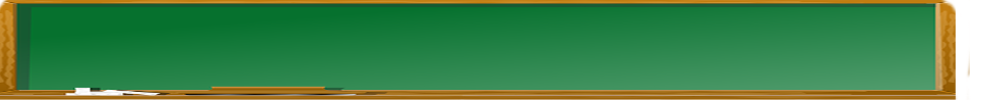
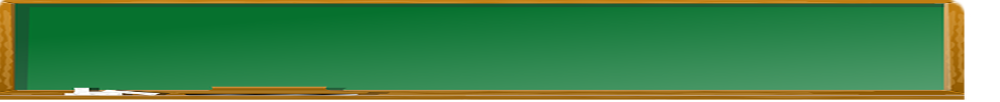
Finalizado parte de layout, agora so semanda que vem pra mexer

diff --git a/css/principal.css b/css/principal.css
@@ -11,17 +11,19 @@ body
 {
     margin-top: 10px;
     border-radius: 15px;
-    
+   
+    border-color: #333;
+    width: 960px;
     
 }
 #cabecalho
-{
+{ 
      background-color: #333;
      height: 100px;
      border-top-right-radius: 10px;
      border-top-left-radius: 10px;
      color: white;
-     width: 954px;
+     width: 960px;
      background-image: url("../img/banner.png");
 }
 
@@ -29,12 +31,10 @@ body
 {
     background-color:white;
     min-height: 300px;
-    margin-left: 0px;
-    width: 954px;
-    margin-top: 10px;
+    width: 960px;
     padding-top: -30px;
     clear: both;
-   
+    
 }
 
 
@@ -44,7 +44,7 @@ body
     height: 50px;
     border-bottom-right-radius: 9px;
     border-bottom-left-radius: 9px;
-    width: 954px;
+    width: 960px;
     clear: both;
     color: white;
 }
@@ -54,10 +54,10 @@ body
   color: black;
   height: 35px;
   clear: both;
-  margin-top: 3px;
-  padding-top: 5px;
+   padding-top: 3px;
+  //padding-top: 5px;
+  width: 960px;
   
-   width: 954px;
 }
   a:link {color: white;}
 a:visited {text-decoration: none;}
@@ -79,10 +79,21 @@ a:active {text-decoration: none;}
 {
   
      padding-left: 15px;
-     width: 939px;
-     text-decoration: none;
+    
+     
 }
 #tabela
 {
   margin-left:  30px;   
+}
+#adm
+{
+  margin-right: 0px;
+  height: inherit;
+  
+}
+button
+{
+ 
+    font-weight: 200;
 }

diff --git a/css/960_12_col.css b/css/960_12_col.css
@@ -21,9 +21,7 @@
 .container_12 {
   margin-left: auto;
   margin-right: auto;
-  border: 1px;
-  border-color: blue;
-  border: solid;
+ 
   width: 960px;
    
  

diff --git a/visao/administracao/adm.php b/visao/administracao/adm.php
@@ -8,9 +8,28 @@ and open the template in the editor.
     <head>
         <meta charset="UTF-8">
         <title></title>
-    </head>
+        <link  href="../../css/bootstrap.css" rel="stylesheet" />
+        <link href="../../css/960_12_col.css" rel="stylesheet" />
+        <link href="../../css/principal.css" rel="stylesheet" />
+        
+     </head>
     <body>
+       
+            <div id="adm" class="grid_12">
         <p>Sistema desenvolvido em PHP e Mysql, como trabalho de conclusão de curso de Sistemas de Informação</p>
+       
+            Silvio Santos Ipsum ma você está certo dissoam? Ma vejam só, vejam só. Ha haeeee. Hi hi. É com você Lombardiam. Qual é a musicamm? Você veio da caravana de ondeammm? Valendo um milhão de reaisammm. O arriscam tuduam, valendo um milhão de reaisuam. É por sua conta e riscoamm? Ma tem ou não tem o celular do milhãouamm? Estamos em ritmo de festamm. O arriscam tuduam, valendo um milhão de reaisuam.
+
+ Eu não queria perguntar isso publicamente, ma vou perguntar. Carla, você tem o ensino fundamentauam? Valendo um milhão de reaisammm. Ma tem ou não tem o celular do milhãouamm? Você veio da caravana de ondeammm? Ma vai pra lá. Ma! Ao adquirir o carnê do Baú, você estará concorrendo a um prêmio de cem mil reaisam. Valendo um milhão de reaisammm. Um, dois três, quatro, PIM, entendeuam? Mah você mora com o papai ou com a mamãem? É com você Lombardiam. É por sua conta e riscoamm? Mah você mora com o papai ou com a mamãem? É com você Lombardiam.
+
+ Valendo um milhão de reaisammm. Patríciaaammmm... Luiz Ricardouaaammmmmm. Um, dois três, quatro, PIM, entendeuam? Ma você está certo dissoam? Estamos em ritmo de festamm. Um, dois três, quatro, PIM, entendeuam? É dinheiro ou não éam? É fácil ou não éam?
+
+ Eu não queria perguntar isso publicamente, ma vou perguntar. Carla, você tem o ensino fundamentauam? É fácil ou não éam? Estamos em ritmo de festamm. Você veio da caravana de ondeammm? Mah você mora com o papai ou com a mamãem? Vem pra lá, mah você vai pra cá. Agora vai, agora vem pra láamm. Ma não existem mulher feiam, existem mulher que não conhece os produtos Jequitiamm. Mah você mora com o papai ou com a mamãem? É bom ou não éam? Ma não existem mulher feiam, existem mulher que não conhece os produtos Jequitiamm.
+
+ Ha hai. Bem boladoam, bem boladoam. Bem gozadoam. Ma! Ao adquirir o carnê do Baú, você estará concorrendo a um prêmio de cem mil reaisam. Ma quem quer dinheiroam? Mah você não consegue né Moisés? Você não consegueam. Ha hai. Bem boladoam, bem boladoam. Bem gozadoam. O arriscam tuduam, valendo um milhão de reaisuam. Você veio da caravana de ondeammm? Wellintaaammmmmmmmm.
+        
         <p></p>
+            </div>
+      
     </body>
 </html>

diff --git a/visao/aluno/_visao.php b/visao/aluno/_visao.php
@@ -14,14 +14,18 @@
     
     <head>
         <meta charset="UTF-8">
-        <link href="../../css/bootstrap.css" rel="stylesheet" />
+         <link  href="../../css/bootstrap.css" rel="stylesheet" />
         <link href="../../css/960_12_col.css" rel="stylesheet" />
+        <link href="../../css/principal.css" rel="stylesheet" />
         <script type="text/javascript" src="../administracao/adminAjax.js"> </script>
         <title></title>
     </head>
     <body>
+        
+              
+              <div id="adm" class="grid_12">
         <br><br>
-            <button style="color: black; font-weight: 200; margin-left: 30px; " >CADASTRAR</button>&nbsp;
+           
          
   
            <table border="1" id="tabela">
@@ -33,7 +37,9 @@
           <?php $Aluno->ListarAlunos(); ?>
              
         </table>
-            
+            </div>
+             
+    
       
     </body>
 </html>

diff --git a/include/layout/menu.php b/include/layout/menu.php
@@ -15,8 +15,8 @@
             
            <div id="menu">
                 
-               <button style="color: black; font-weight: 200" onclick="Alunos()">ALUNOS</button>&nbsp;
-              <button style="color: black; font-weight: 200; ">PROFESSORES</button>&nbsp;
+               <button  onclick="Alunos()">ALUNOS</button>&nbsp;
+              <button >PROFESSORES</button>&nbsp;
            </div>
         </div>
         
